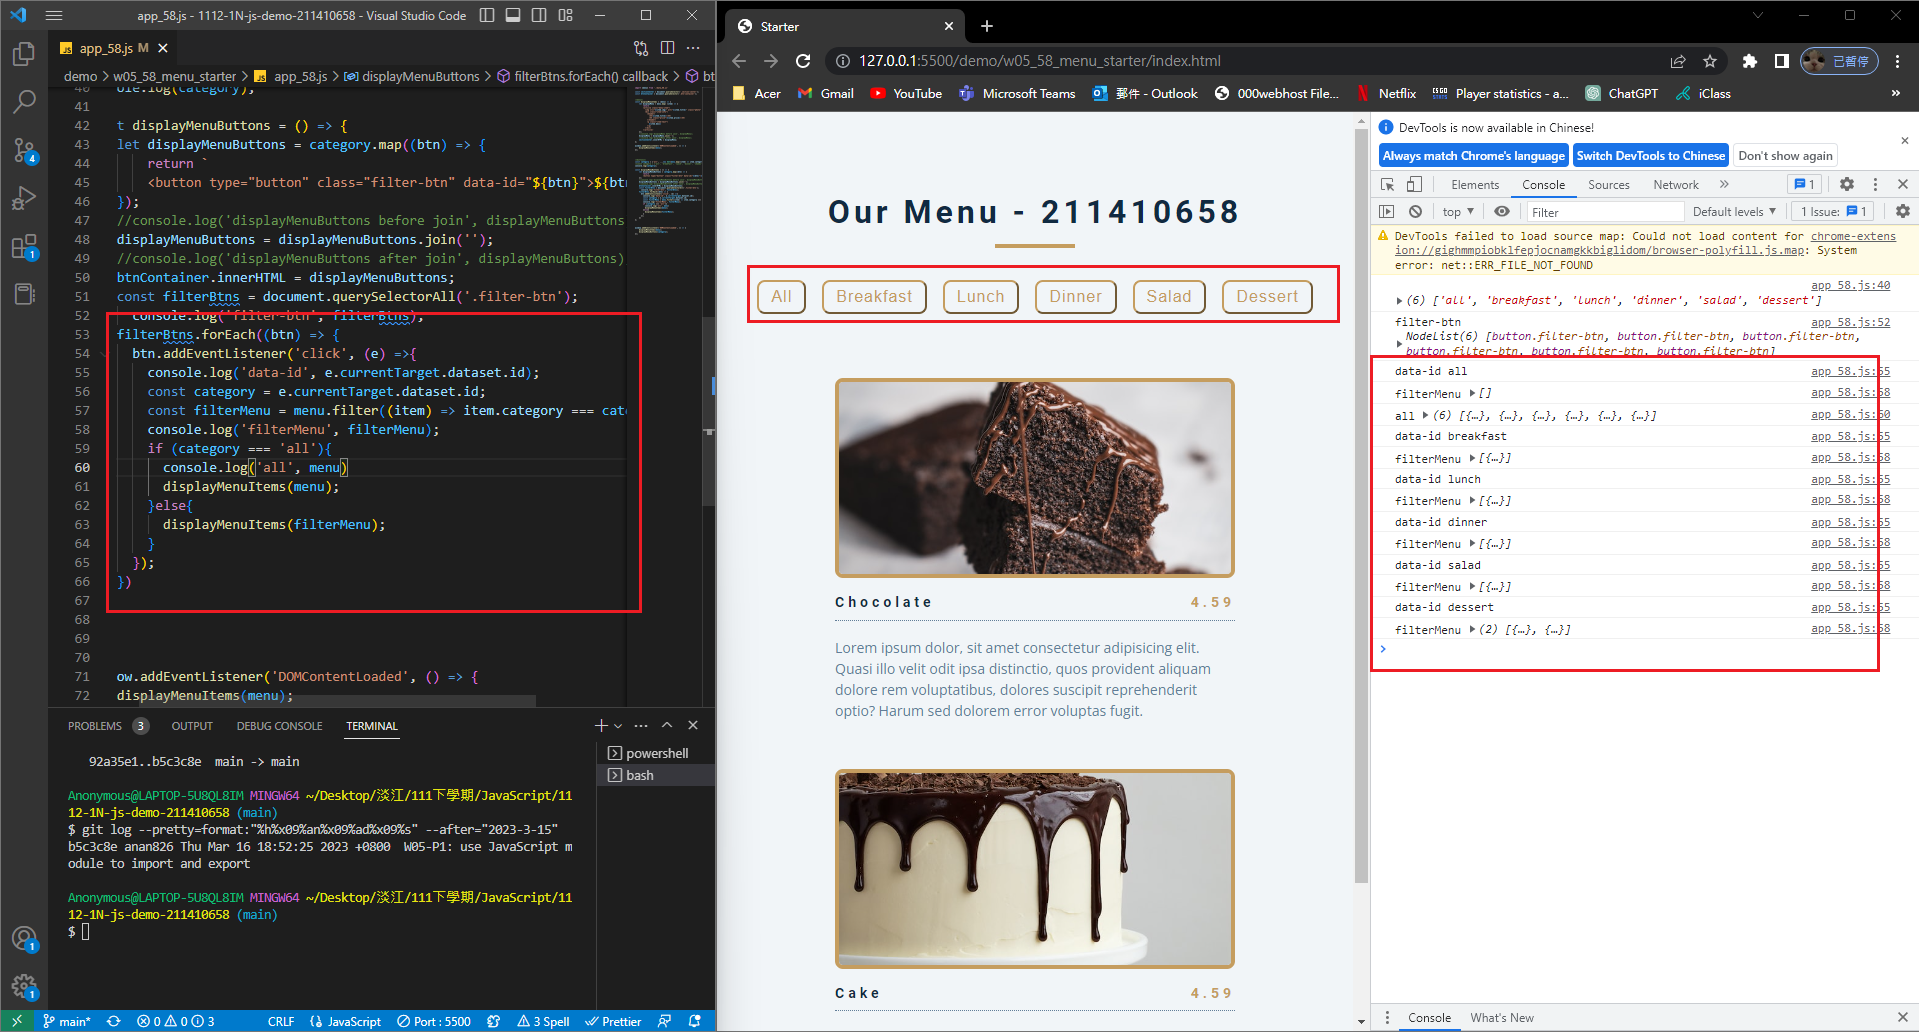
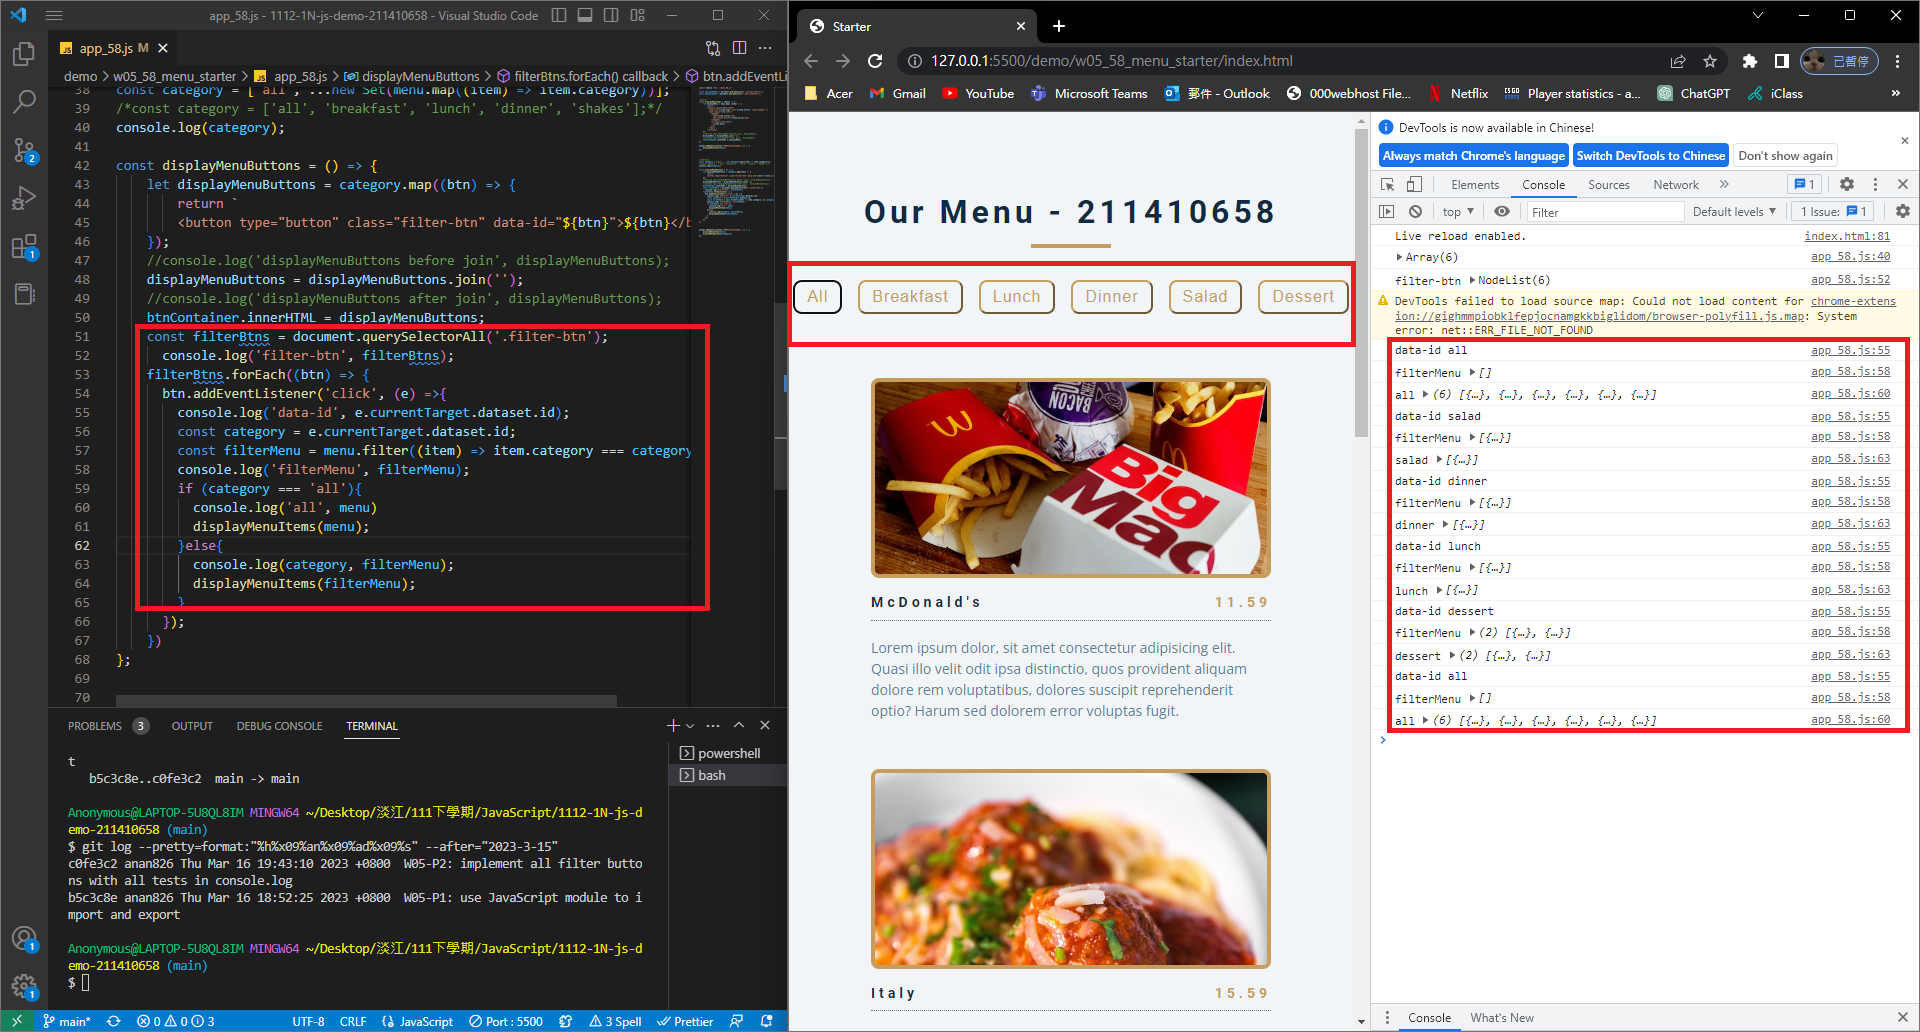
W05-P3: show modal and overlay when pressing a button

diff --git a/demo/w05_58_modal/style_58.css b/demo/w05_58_modal/style_58.css
@@ -1,0 +1,85 @@
+* {
+  margin: 0;
+  padding: 0;
+  box-sizing: inherit;
+}
+
+html {
+  font-size: 62.5%;
+  box-sizing: border-box;
+}
+
+body {
+  font-family: sans-serif;
+  color: #333;
+  line-height: 1.5;
+  height: 100vh;
+  position: relative;
+  display: flex;
+  align-items: flex-start;
+  justify-content: center;
+  background: linear-gradient(to top left, #28b487, #7dd56f);
+}
+
+.show-modal {
+  font-size: 2rem;
+  font-weight: 600;
+  padding: 1.75rem 3.5rem;
+  margin: 5rem 2rem;
+  border: none;
+  background-color: #fff;
+  color: #444;
+  border-radius: 10rem;
+  cursor: pointer;
+}
+
+.close-modal {
+  position: absolute;
+  top: 1.2rem;
+  right: 2rem;
+  font-size: 5rem;
+  color: #333;
+  cursor: pointer;
+  border: none;
+  background: none;
+}
+
+h1 {
+  font-size: 2.5rem;
+  margin-bottom: 2rem;
+}
+
+p {
+  font-size: 1.8rem;
+}
+
+/* -------------------------- */
+/* CLASSES TO MAKE MODAL WORK */
+.hidden {
+  display: none;
+}
+
+.modal {
+  position: absolute;
+  top: 50%;
+  left: 50%;
+  transform: translate(-50%, -50%);
+  width: 70%;
+
+  background-color: white;
+  padding: 6rem;
+  border-radius: 5px;
+  box-shadow: 0 3rem 5rem rgba(0, 0, 0, 0.3);
+  z-index: 10;
+}
+
+.overlay {
+  position: absolute;
+  top: 0;
+  left: 0;
+  width: 100%;
+  height: 100%;
+  background-color: rgba(0, 0, 0, 0.6);
+  backdrop-filter: blur(3px);
+  z-index: 5;
+}

diff --git a/demo/w05_58_modal/index.html b/demo/w05_58_modal/index.html
@@ -1,0 +1,33 @@
+<!DOCTYPE html>
+<html lang="en">
+  <head>
+    <meta charset="UTF-8" />
+    <meta name="viewport" content="width=device-width, initial-scale=1.0" />
+    <meta http-equiv="X-UA-Compatible" content="ie=edge" />
+    <link rel="stylesheet" href="style_58.css" />
+    <title>Modal window</title>
+  </head>
+  <body>
+    <button class="show-modal">Show modal 1</button>
+    <button class="show-modal">Show modal 2</button>
+    <button class="show-modal">Show modal 3</button>
+
+    <div class="modal hidden">
+      <button class="close-modal">&times;</button>
+      <h1>I'm a modal window 😍</h1>
+      <p>
+        Lorem ipsum dolor sit amet, consectetur adipisicing elit, sed do eiusmod
+        tempor incididunt ut labore et dolore magna aliqua. Ut enim ad minim
+        veniam, quis nostrud exercitation ullamco laboris nisi ut aliquip ex ea
+        commodo consequat. Duis aute irure dolor in reprehenderit in voluptate
+        velit esse cillum dolore eu fugiat nulla pariatur. Excepteur sint
+        occaecat cupidatat non proident, sunt in culpa qui officia deserunt
+        mollit anim id est laborum.
+      </p>
+    </div>
+    <div class="overlay hidden"></div>
+    
+
+    <script src="script_58.js"></script>
+  </body>
+</html>

diff --git a/demo/w05_58_modal/script_58.js b/demo/w05_58_modal/script_58.js
@@ -1,0 +1,29 @@
+'use strict';
+
+const modal = document.querySelector('.modal');
+const overlay = document.querySelector('.overlay');
+const btnCloseModal = document.querySelector('.close-modal');
+const btnsOpenModal = document.querySelectorAll('.show-modal');
+console.log('modal', modal);
+console.log('show-modal', btnsOpenModal);
+
+const OpenModal = (index) =>{
+    modal.classList.remove('hidden');
+    overlay.classList.remove('hidden');
+};
+
+for (let i=0;i<btnsOpenModal.length;i++){
+    btnsOpenModal[i].addEventListener('click', OpenModal);
+}
+
+const CloseModal = () =>{
+    modal.classList.add('hidden');
+    overlay.classList.add('hidden');
+};
+
+document.addEventListener('keydown', (e) =>{
+    if(e.key === 'ESCAPE' && modal.classList.contains('hidden')){
+        CloseModal();};
+    
+});
+

diff --git a/demo/w05_58_menu_starter/app_58.js b/demo/w05_58_menu_starter/app_58.js
@@ -60,6 +60,7 @@ const displayMenuButtons = () => {
           console.log('all', menu)
           displayMenuItems(menu);
         }else{
+          console.log(category, filterMenu);
           displayMenuItems(filterMenu);
         }
       });

diff --git a/demo/md/w05_58/w05_58.md b/demo/md/w05_58/w05_58.md
@@ -13,5 +13,9 @@ b5c3c8e anan826 Thu Mar 16 18:52:25 2023 +0800  W05-P1: use JavaScript module to
 ![W05-p2](https://slyliryvslfzxeqslixp.supabase.co/storage/v1/object/public/demo-58/md_1N_img/w05-p2.png)
 
 ```
-
+c0fe3c2 anan826 Thu Mar 16 19:43:10 2023 +0800  W05-P2: implement all filter buttons with all tests in console.log
 ```
+
+### W05-P3: show modal and overlay when pressing a button
+
+![W05-p2](https://slyliryvslfzxeqslixp.supabase.co/storage/v1/object/public/demo-58/md_1N_img/w05-p3.png)
